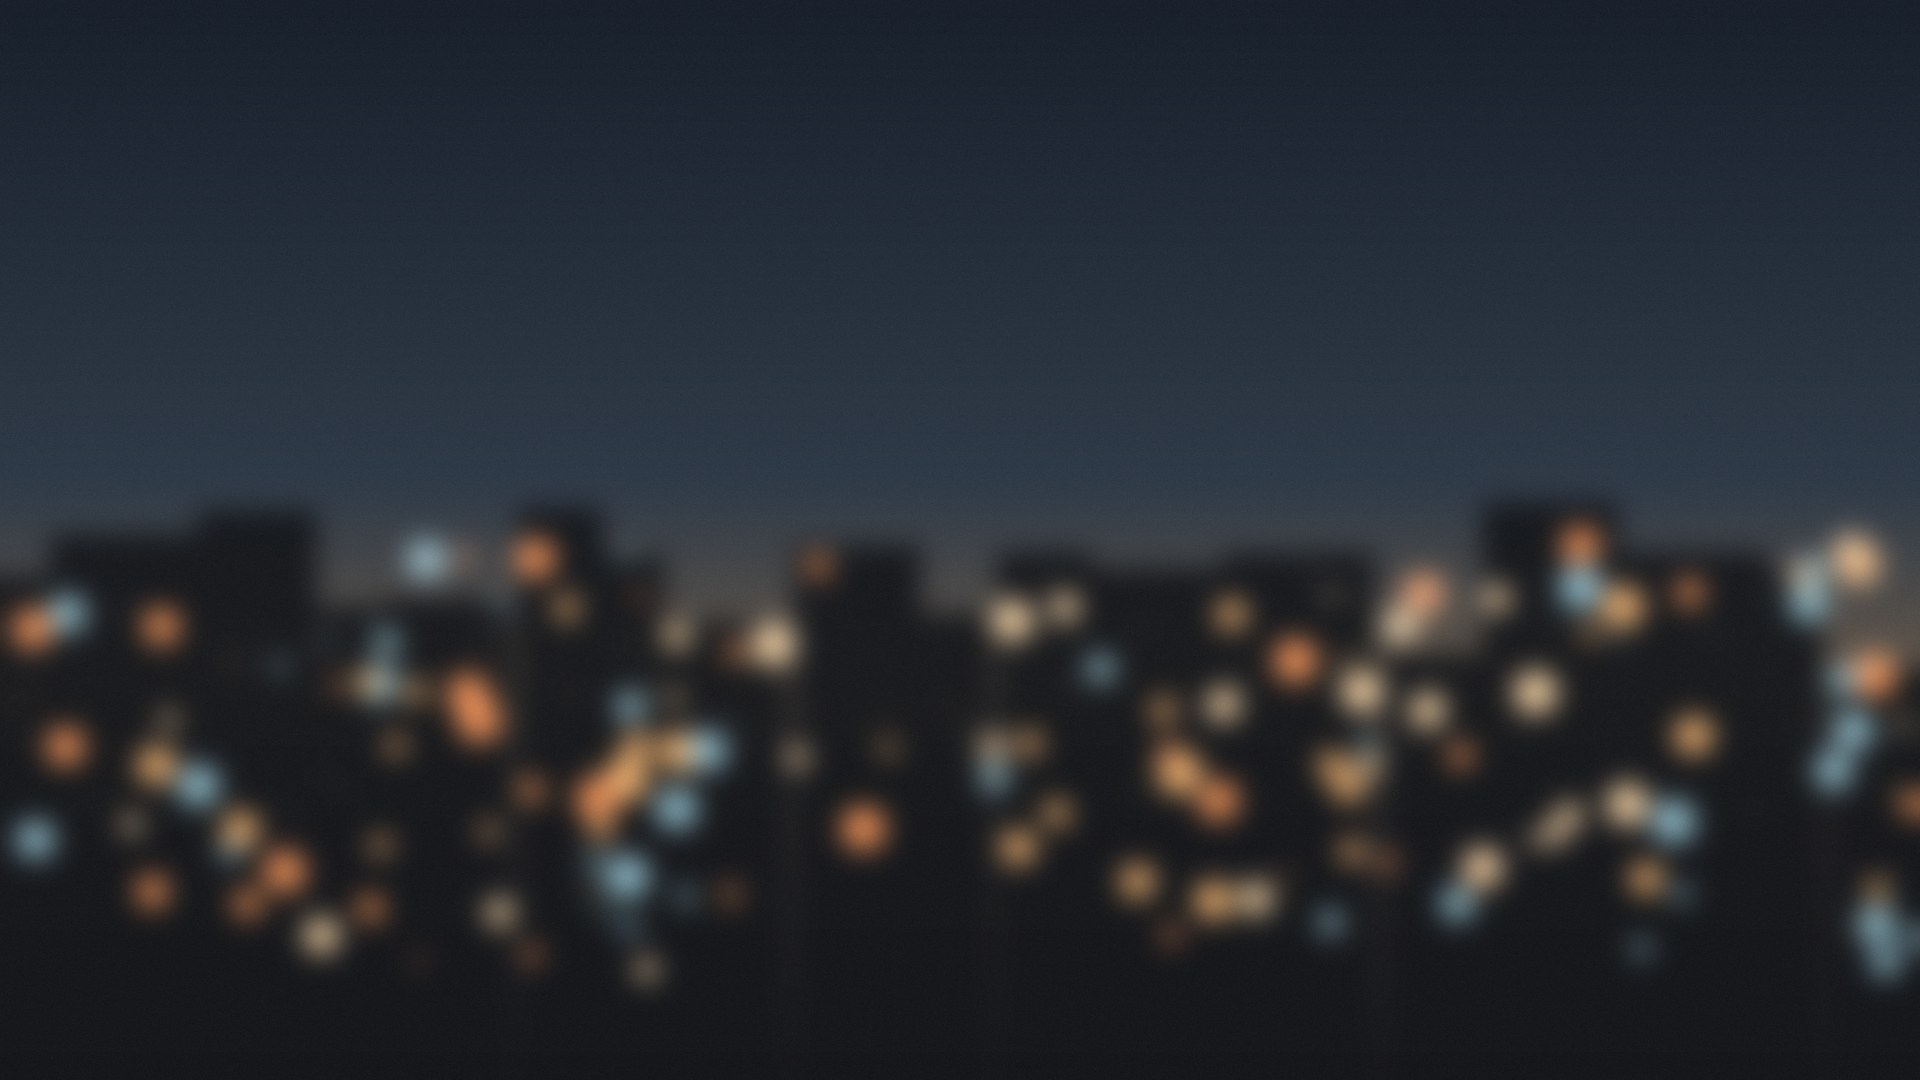
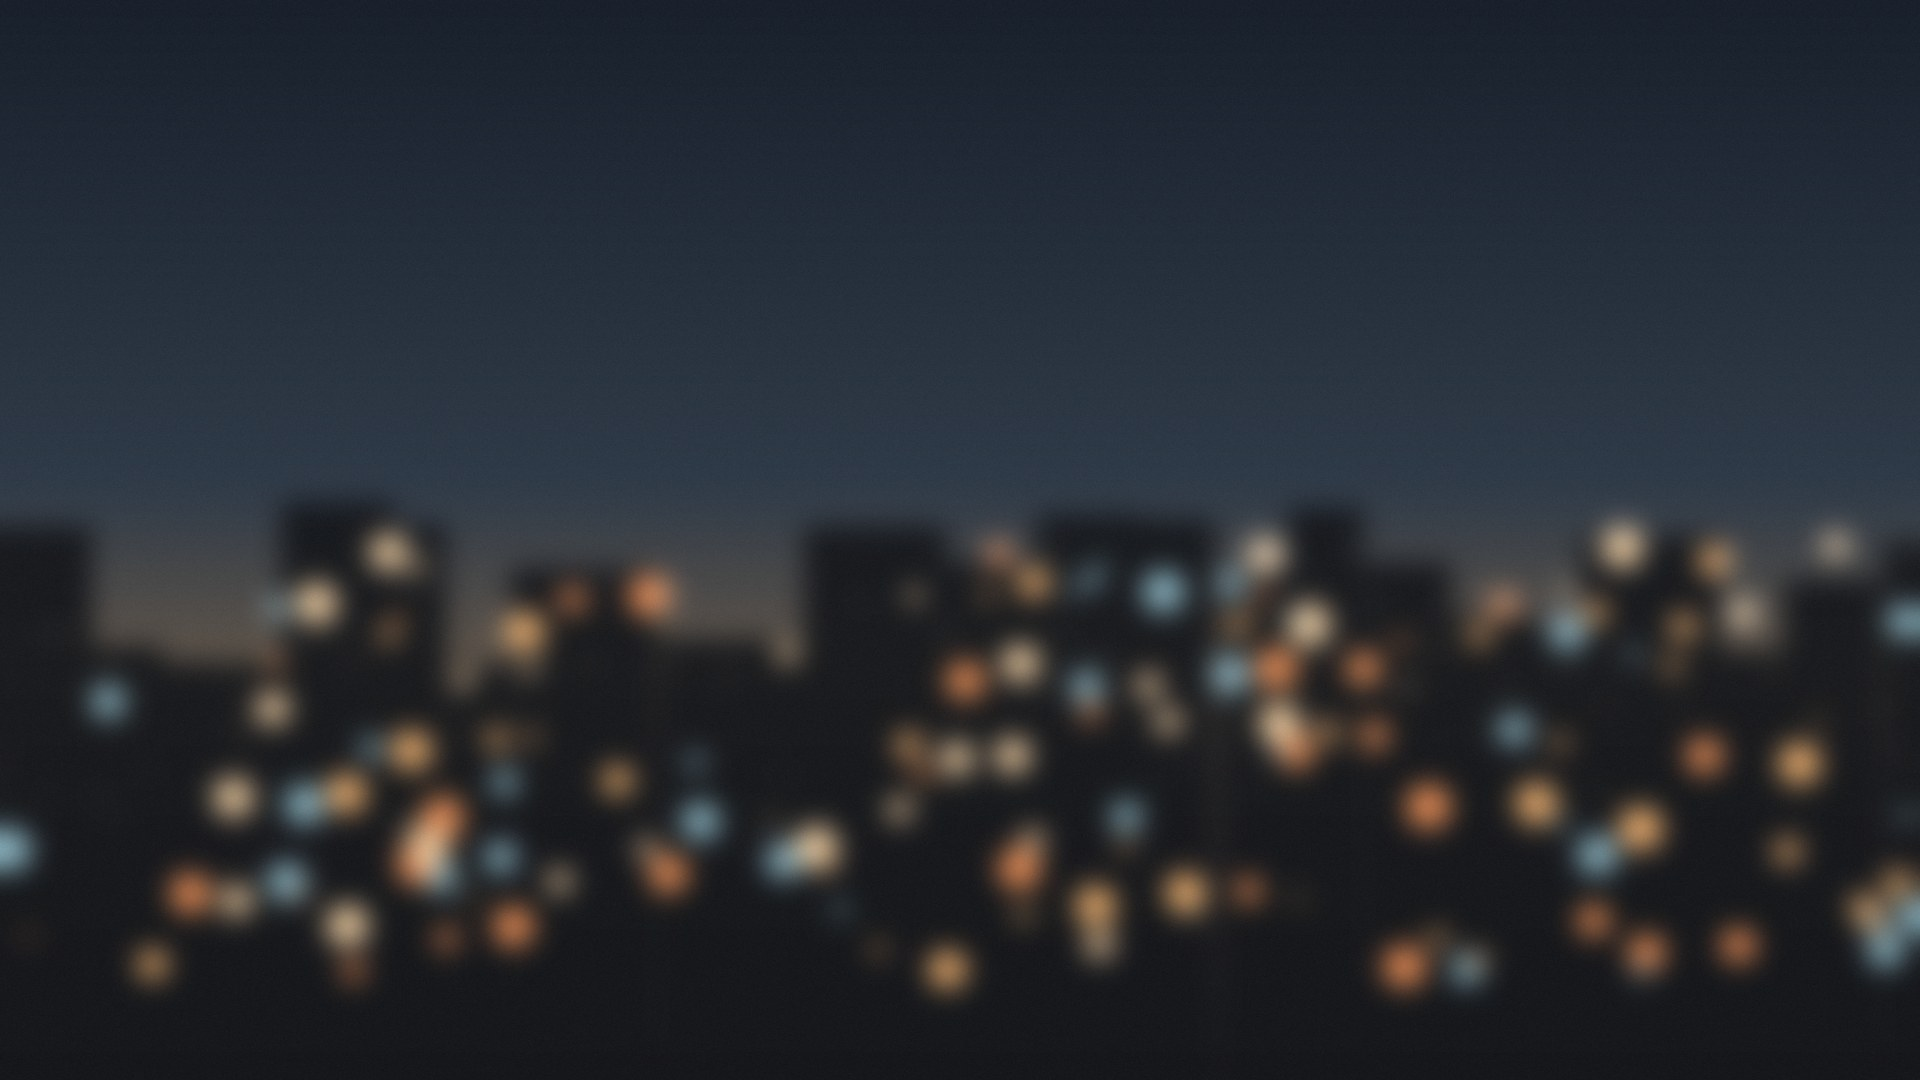
design: document the synthetic plates and the pipeline decision (#466)
- The preview plates are drawn from scratch by
  redesign-2026-11/tools/make-plates.py (gradient, skyline, blurred
  lights, vignette, seeded grain): no photo, footage or third-party
  image, so no source or licence to cite. The output is deterministic,
  and the JPEGs carry only a JFIF header (no EXIF), checked with
  exiftool. The committed plates are now this script's output.
- video-template.md: the owner decided on 2026-11-02 to connect the
  template to the production pipeline. Nothing is connected in this
  PR; a separate ticket and ADR decide who fills the props (title by
  the editor, city and governorate from the material, the tag for
  circulated material) and where the render runs (proposed: media
  worker, after editorial approval, as a new derivative).

Claude-Session: https://claude.ai/code/session_01HY7py4Kwox1KypVxZuFGKP

diff --git a/docs/design/redesign-2026-11/tools/make-plates.py b/docs/design/redesign-2026-11/tools/make-plates.py
@@ -1,0 +1,93 @@
+"""Synthetic background plates for the circulated-video template previews.
+
+The plates are drawn here from scratch: a dusk gradient, a blocky skyline,
+blurred "window" lights, a vignette and grain. No photo, footage or
+third-party image is used, so the outputs carry no source or licence.
+
+Usage (from the repository root):
+    python3 docs/design/redesign-2026-11/tools/make-plates.py \
+        docs/design/redesign-2026-11/motion/circulated-template/public/plates
+
+Writes plate-9x16.jpg, plate-16x9.jpg and plate-1x1.jpg. Pillow only;
+the output is deterministic for a given Pillow version (seeded RNG, no
+system noise source), and Pillow writes no EXIF.
+"""
+
+import random
+import sys
+from pathlib import Path
+
+from PIL import Image, ImageChops, ImageDraw, ImageFilter
+
+STOPS = [
+    (0.00, (20, 28, 40)),
+    (0.45, (44, 56, 70)),
+    (0.62, (96, 84, 72)),
+    (0.72, (60, 54, 52)),
+    (1.00, (22, 22, 26)),
+]
+LIGHTS = [(255, 180, 100), (250, 140, 70), (255, 214, 160), (140, 190, 205)]
+
+
+def sky(t: float) -> tuple[int, int, int]:
+    for (a, ca), (b, cb) in zip(STOPS, STOPS[1:]):
+        if a <= t <= b:
+            k = (t - a) / (b - a)
+            return tuple(int(ca[j] + (cb[j] - ca[j]) * k) for j in range(3))
+    return STOPS[-1][1]
+
+
+def grain(w: int, h: int, rng: random.Random, sigma: float) -> Image.Image:
+    """Seeded monochrome grain (Image.effect_noise is not seedable)."""
+    data = bytes(max(0, min(255, int(128 + rng.gauss(0, sigma)))) for _ in range(w * h))
+    return Image.frombytes("L", (w, h), data).convert("RGB")
+
+
+def plate(w: int, h: int, seed: int) -> Image.Image:
+    rng = random.Random(seed)
+    s = min(w, h)
+    im = Image.new("RGB", (w, h))
+    d = ImageDraw.Draw(im)
+    for y in range(h):
+        d.line([(0, y), (w, y)], fill=sky(y / h))
+
+    skyline = Image.new("L", (w, h), 0)
+    sd = ImageDraw.Draw(skyline)
+    x, base = -20, int(h * 0.66)
+    while x < w:
+        bw = rng.randint(int(s * 0.05), int(s * 0.14))
+        bh = rng.randint(int(s * 0.04), int(s * 0.2))
+        sd.rectangle([x, base - bh, x + bw, h], fill=235)
+        for _ in range(rng.randint(2, 6)):
+            wx = rng.randint(x + 4, x + bw - 4)
+            wy = rng.randint(base - bh + 6, base + int(s * 0.1))
+            sd.rectangle([wx, wy, wx + int(s * 0.006), wy + int(s * 0.008)], fill=60)
+        x += bw + rng.randint(-int(s * 0.01), int(s * 0.01))
+    im.paste((16, 18, 22), mask=skyline)
+
+    lights = Image.new("RGB", (w, h), (0, 0, 0))
+    ld = ImageDraw.Draw(lights)
+    for _ in range(140):
+        r = rng.randint(int(s * 0.004), int(s * 0.02))
+        cx, cy = rng.randint(0, w), rng.randint(int(h * 0.5), int(h * 0.9))
+        ld.ellipse([cx - r, cy - r, cx + r, cy + r], fill=rng.choice(LIGHTS))
+    im = ImageChops.screen(im, lights.filter(ImageFilter.GaussianBlur(s * 0.004)))
+    im = im.filter(ImageFilter.GaussianBlur(s * 0.012))
+
+    vignette = Image.new("L", (w, h), 0)
+    ImageDraw.Draw(vignette).ellipse([-w * 0.25, -h * 0.2, w * 1.25, h * 1.2], fill=255)
+    vignette = vignette.filter(ImageFilter.GaussianBlur(s * 0.18))
+    im = Image.composite(im, Image.new("RGB", (w, h), (6, 8, 12)), vignette)
+    return Image.blend(im, grain(w, h, rng, 28), 0.05)
+
+
+def main() -> None:
+    out = Path(sys.argv[1] if len(sys.argv) > 1 else ".")
+    out.mkdir(parents=True, exist_ok=True)
+    for name, (w, h) in {"plate-9x16.jpg": (1080, 1920), "plate-16x9.jpg": (1920, 1080), "plate-1x1.jpg": (1080, 1080)}.items():
+        plate(w, h, seed=11).save(out / name, quality=88)
+        print(out / name)
+
+
+if __name__ == "__main__":
+    main()

diff --git a/docs/design/specs/video-template.md b/docs/design/specs/video-template.md
@@ -2,7 +2,7 @@
 
 **المرجع:** ملف Figma «Visual Library — Design System»، صفحة `Video Template · مواد متداولة` (الرابط في `design-system-v2.md`). اللقطات في `docs/design/redesign-2026-11/screens/video/`. طلب المالك 2026-11-02: قالب للفيديوهات المتداولة فيه **عنوان الفيديو، وشعار فلسطين بوست، ومكان الحدث**، يُحرَّك في مرحلة تالية.
 
-القالب طبقة فوق الفيديو، لا يغيّر الفيديو نفسه. والخلفيات في الإطارات صور تجريبية مولَّدة (مدينة ليلًا خارج التركيز)، لا مواد حقيقية.
+القالب طبقة فوق الفيديو، لا يغيّر الفيديو نفسه. والخلفيات في الإطارات اصطناعية يرسمها `redesign-2026-11/tools/make-plates.py` من الصفر، لا صور ولا مواد حقيقية.
 
 ## العناصر
 
@@ -73,3 +73,12 @@
 - `tag`: «مشاهد متداولة» افتراضيًا.
 
 لا اسم مراسل ولا مصدر ولا إحداثيات في أي مدخل.
+
+## الربط بخط الإنتاج
+
+**قرار المالك (2026-11-02): «نعم نربطه بخط الإنتاج».** لم يُربط القالب بشيء في هذا الطلب، والربط يتمّ بتذكرة مستقلة وADR. ما يقرّره ذلك الـADR:
+
+- **من يملأ المعاملات.** العنوان يكتبه المحرّر. والمدينة والمحافظة تأتيان من حقلَي المادة (`city` و`governorate`). والوسم «مشاهد متداولة» يُختار للمادة المتداولة وحدها.
+- **أين يُصدَّر.** المقترح: عامل الوسائط، بعد الاعتماد التحريري، مشتقًّا جديدًا للمادة. والأصل لا يُمسّ (`CLAUDE.md` §5).
+
+هذا الطلب يرسم القالب ويحرّكه، ولا يدّعي غير ذلك.

diff --git a/docs/design/redesign-2026-11/motion/circulated-template/README.md b/docs/design/redesign-2026-11/motion/circulated-template/README.md
@@ -60,6 +60,10 @@ ffmpeg -i clip.mp4 -i out/overlay.mov \
 
 - `fonts/`: Rubik Bold وReadex Pro SemiBold من تطبيق iOS، ورخصتا OFL. لا خط من الشبكة ولا من النظام.
 - `brand/palpost-logo-white.png`: الشعار الأبيض من `docs/design/redesign-2026-11/brand/`.
-- `plates/`: خلفيات تجريبية مولَّدة (مدينة ليلًا خارج التركيز)، لا مواد حقيقية.
+- `plates/`: خلفيات اصطناعية يرسمها `docs/design/redesign-2026-11/tools/make-plates.py` من الصفر (تدرّج سماء، وخط أبنية، وأضواء مموّهة، وتظليل، وحبيبات)، فلا صورة ولا لقطة ولا مادة من طرف ثالث، ولا مصدر ولا رخصة تُنسب. الناتج ثابت لكل تشغيل، وPillow لا يكتب EXIF: في الملفات ترويسة JFIF وحدها (فُحصت بـ exiftool). وإطارات Figma رُسمت على تشغيل أقدم للمولّد نفسه، قبل أن تصير الحبيبات بذرة ثابتة.
+
+```bash
+python3 docs/design/redesign-2026-11/tools/make-plates.py docs/design/redesign-2026-11/motion/circulated-template/public/plates
+```
 
 ومخرجات التصدير (`*.mp4` و`*.mov`) خارج المستودع (`.gitignore`).
